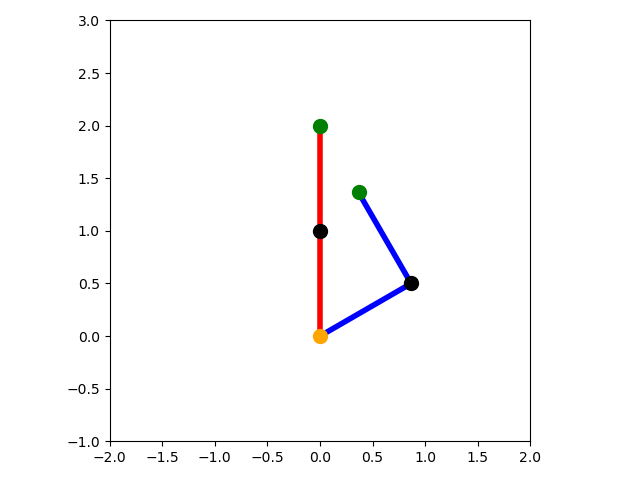
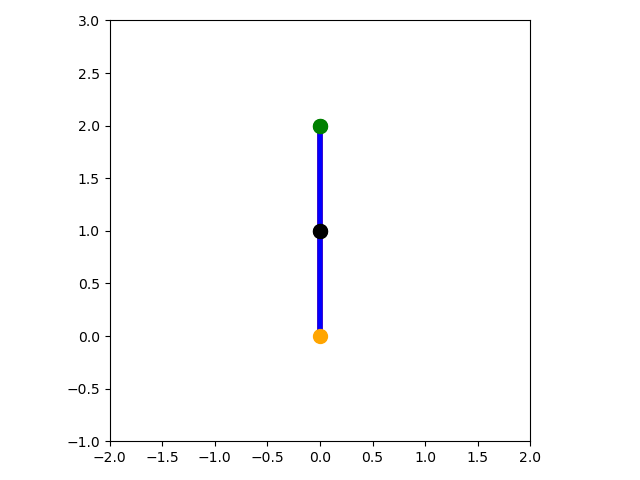
Se crea un nuevo ejercicio de cinematica directa para un robot plano con 3 eslabones

Changed region(s): [[0.4688, 0.2812, 0.6562, 0.625], [0.4688, 0.5, 0.5625, 0.7188], [0.5625, 0.625, 0.5938, 0.6562]]

diff --git a/Fisica-II/Seminarios/Seminario-IV/cinematicaDirectaEjemplo.py b/Fisica-II/Seminarios/Seminario-IV/cinematicaDirectaEjemplo.py
@@ -8,32 +8,28 @@ def robot_structure():
 	#Se definen los ejes de rotacion
 	axis1 = np.array([0, 0, 1]) # Eje de rotación de la primera articulación
 	axis2 = np.array([0, 0, 1]) # Eje de rotación de la segunda articulación
-	axis3 = np.array([0, 0, 1]) # Eje de rotación de la tercera articulación
 
 	#Se definen las posiciones de las articulaciones
 	q1 = np.array([0, 0, 0]) # Posición de la primera articulación
-	q2 = np.array([1, 0, 0]) # Posición de la segunda articulación
-	q3 = np.array([2, 0, 0]) # Posición de la tercera articulación
-	
+	q2 = np.array([0, 1, 0]) # Posición de la segunda articulación
+
 	#Se calculan las velocidades (Producto escalar de la posicion de la articulacion con su eje de rotacion)
 	v1 = np.cross(q1, axis1) #Velocidad lineal de la primera articulacion
 	v2= np.cross(q2, axis2) #Velocidad lineal de la segunda articulacion
-	v3= np.cross(q3, axis3) #Velocidad lineal de la tercera articulacion
 
 	# Ejes helicoidales
 	# np.hstack concatena dos vectores
 	S1 = np.hstack((axis1, v1)) # Eje helicoidal de la primera articulación
 	S2 = np.hstack((axis2, v2)) # Eje helicoidal de la segunda articulación
-	S3 = np.hstack((axis3, v3)) # Eje helicoidal de la tercera articulación
-	
+
 	# Matriz de transformación homogénea en la posición cero del robot
 
 	#Se define el vector de translacion	
-	p = np.array([3, 0, 0])
+	p = np.array([0, 0, 2])
 	
 	#Se define la matriz homogenea de rotacion (T_matrix es una funcion creada posteriormente)
 	M0 = T_matrix(np.eye(3), p)
-	return S1, S2, S3, M0
+	return S1, S2, M0
 
 
 # Calcula la matriz antisimétrica de un vector R3
@@ -70,30 +66,28 @@ def exp_matrix(S, theta):
 
 	# Vector de traslación
 	p = (np.eye(3)*theta + (1-np.cos(theta))*wmatrix + (theta-np.sin(theta))*np.dot(wmatrix, wmatrix)) @ v
+	print(p)
 	return T_matrix(R, p)
 
 #Se preparan las opciones para que el codigo pueda recibir parametros
 parser = OptionParser()
-parser.add_option("-a", "--a1", type="float", default=90, help="Ángulo de rotación para la primera articulación (grados)")
-parser.add_option("-b", "--a2", type="float", default=-45, help="Ángulo de rotación para la segunda articulación (grados)")
-parser.add_option("-c", "--a3", type="float", default=45, help="Ángulo de rotación para la tercera articulación (grados)")
+parser.add_option("-a", "--a1", type="float", default=0, help="Ángulo de rotación para la primera articulación (grados)")
+parser.add_option("-b", "--a2", type="float", default=0, help="Ángulo de rotación para la segunda articulación (grados)")
 (options, args) = parser.parse_args()
 
 #Se pasan los angulos a radianes
 a1 = np.deg2rad(options.a1) # Ángulo de rotación de la primera articulación
 a2 = np.deg2rad(options.a2) # Ángulo de rotación de la segunda articulación
-a3 = np.deg2rad(options.a3) # Ángulo de rotación de la tercera articulación
 
 #Se reciben los datos de la estructura del robot
-S1, S2, S3, M0 = robot_structure()
+S1, S2, M0 = robot_structure()
 
 #Se definen las matrices de transformacion homogeneas para las articulaciones del robot
 T1 = exp_matrix(S1, a1) # Matriz de transformación homogénea para la primera articulación
 T2 = exp_matrix(S2, a2) # Matriz de transformación homogénea para la segunda articulación
-T3 = exp_matrix(S3, a3) # Matriz de transformación homogénea para la segunda articulación
 
 # Matriz de transformación homogénea para la posición final del robot
-M = T1 @ T2 @ T3 @ M0 
+M = T1 @ T2 @ M0 
 
 # Dado que es un movimiento en 2D, representamos la posición final del robot en el plano XY
 fig = plt.figure()
@@ -101,46 +95,33 @@ ax = fig.add_subplot(111)
 
 # Definimos el origen y el final de cada eslabón en la posición cero y en la posición final del robot
 p10ini = np.array([0, 0, 0, 1])
-p11ini = np.array([1, 0, 0, 1])
+p11ini = np.array([0, 1, 0, 1])
 p20ini = p11ini
-p21ini = np.array([2, 0, 0, 1])
-p30ini = p21ini
-p31ini = np.array([3, 0, 0, 1])
+p21ini = np.array([0, 2, 0, 1])
 p10fin = p10ini
 p11fin = T1 @ p11ini
 p20fin = p11fin
 p21fin = T1 @ T2 @ p21ini
-p30fin = p21fin
-p31fin = T1 @ T2 @ T3 @ p31ini
 
-# Dibuja el primer eslabón en posicion 0
+# Dibuja el primer eslabón
 ax.plot([p10ini[0], p11ini[0]], [p10ini[1], p11ini[1]], 'r', linewidth=4)
-# Dibuja el primer eslabon rotado
-ax.plot([p10fin[0], p11fin[0]], [p10fin[1], p11fin[1]], 'r', linewidth=4)
+ax.plot([p10fin[0], p11fin[0]], [p10fin[1], p11fin[1]], 'b', linewidth=4)
 
 # Dibuja el segundo eslabón
-ax.plot([p20ini[0], p21ini[0]], [p20ini[1], p21ini[1]], 'g', linewidth=4)
-# Dibuja el segundo eslabon rotado 
-ax.plot([p20fin[0], p21fin[0]], [p20fin[1], p21fin[1]], 'g', linewidth=4)
-
-# Dibuja el tercer eslabón
-ax.plot([p30ini[0], p31ini[0]], [p30ini[1], p31ini[1]], 'y', linewidth=4)
-# Dibuja el tercer eslabon rotado
-ax.plot([p30fin[0], p31fin[0]], [p30fin[1], p31fin[1]], 'y', linewidth=4)
+ax.plot([p20ini[0], p21ini[0]], [p20ini[1], p21ini[1]], 'r', linewidth=4)
+ax.plot([p20fin[0], p21fin[0]], [p20fin[1], p21fin[1]], 'b', linewidth=4)
 
 # Dibuja los puntos de interés
-ax.plot(p10ini[0], p10ini[1], 'bo', markersize=10) # punto inicial de L1
-ax.plot(p11ini[0], p11ini[1], 'ro', markersize=10) # punto final de L1 en la posición inicial
-ax.plot(p11fin[0], p11fin[1], 'ro', markersize=10) # punto final de L1 en la posición final
+ax.plot(p10ini[0], p10ini[1], 'o', color='orange', markersize=10) # punto inicial de L1
+ax.plot(p11ini[0], p11ini[1], 'ko', markersize=10) # punto final de L1 en la posición inicial
+ax.plot(p11fin[0], p11fin[1], 'ko', markersize=10) # punto final de L1 en la posición final
 ax.plot(p21ini[0], p21ini[1], 'go', markersize=10) # punto final de L2 en la posición inicial
 ax.plot(p21fin[0], p21fin[1], 'go', markersize=10) # punto final de L2 en la posición final
-ax.plot(p31ini[0], p31ini[1], 'y>', markersize=10) # punto final de L3 en la posición inicial
-ax.plot(p31fin[0], p31fin[1], 'y^', markersize=10) # punto final de L3 en la posición final
 
 # Ajusta el tamaño del gráfico y lo guarda
-ax.set_xlim(-1, 5)
-ax.set_ylim(-1, 5)
+ax.set_xlim(-2, 2)
+ax.set_ylim(-1, 3)
 ax.set_aspect('equal', 'box')
 plt.tight_layout()
-plt.savefig('3RPlano.png')
+plt.savefig('2R2D.png')
 
